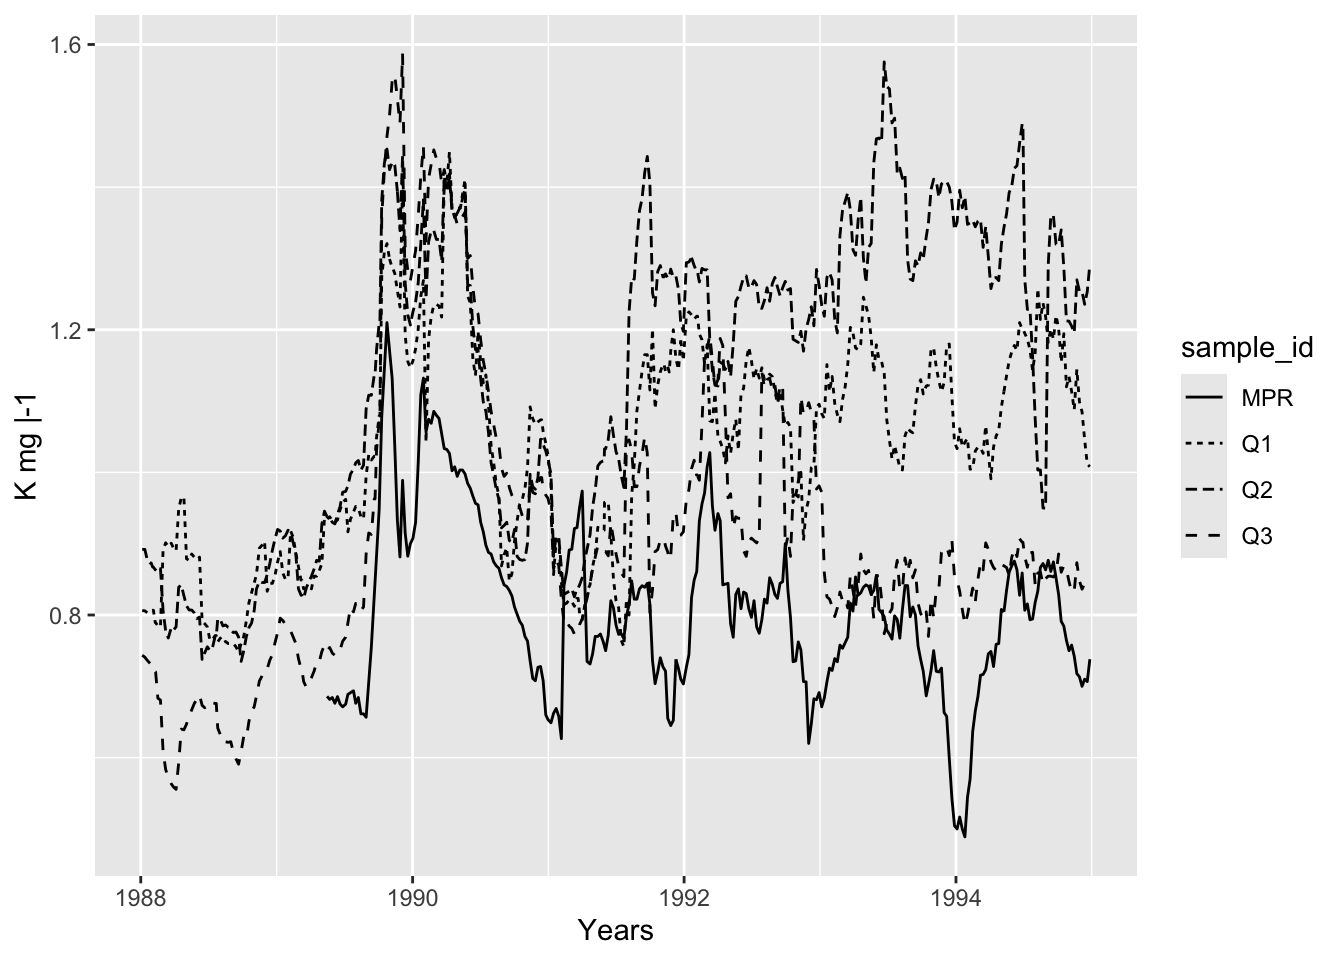
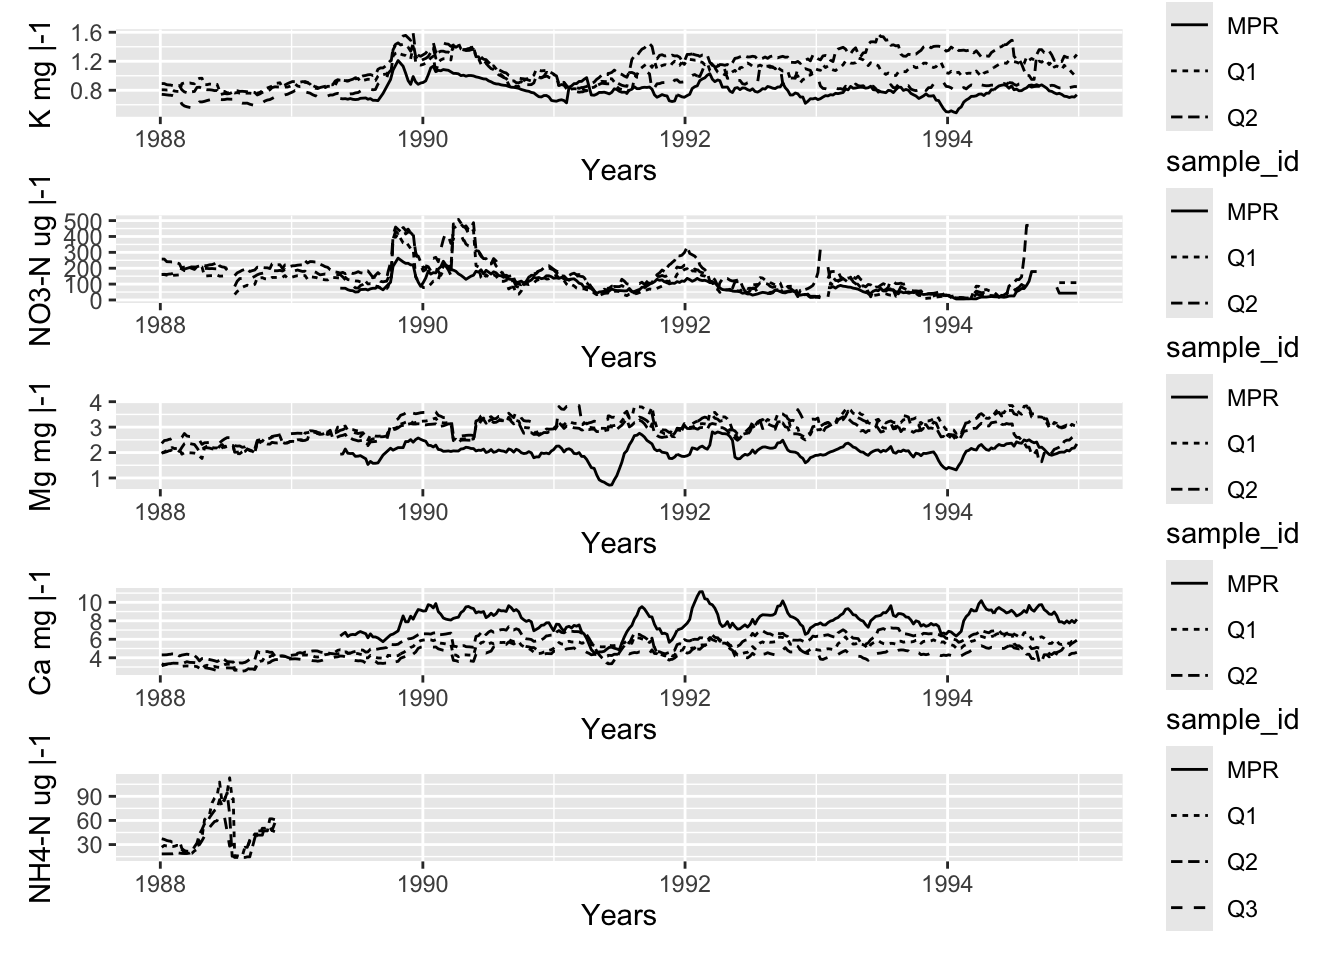
final graph

diff --git a/docs/paper.html b/docs/paper.html
@@ -282,62 +282,40 @@ date  (1): Sample_Date
 <h1>Results</h1>
 <div class="cell">
 <div class="sourceCode cell-code" id="cb13"><pre class="sourceCode r code-with-copy"><code class="sourceCode r"><span id="cb13-1"><a href="#cb13-1" aria-hidden="true" tabindex="-1"></a><span class="co"># ggplot of the rollmean average k </span></span>
-<span id="cb13-2"><a href="#cb13-2" aria-hidden="true" tabindex="-1"></a><span class="fu">ggplot</span>(<span class="at">data =</span> mov_avg_k, <span class="fu">aes</span>(<span class="at">x =</span> sample_date, <span class="at">y =</span> mov_avg_k, <span class="at">linetype =</span> sample_id)) <span class="sc">+</span></span>
+<span id="cb13-2"><a href="#cb13-2" aria-hidden="true" tabindex="-1"></a>k_plot <span class="ot">&lt;-</span> <span class="fu">ggplot</span>(<span class="at">data =</span> mov_avg_k, <span class="fu">aes</span>(<span class="at">x =</span> sample_date, <span class="at">y =</span> mov_avg_k, <span class="at">linetype =</span> sample_id)) <span class="sc">+</span></span>
 <span id="cb13-3"><a href="#cb13-3" aria-hidden="true" tabindex="-1"></a>  <span class="fu">geom_line</span>() <span class="sc">+</span></span>
 <span id="cb13-4"><a href="#cb13-4" aria-hidden="true" tabindex="-1"></a>  <span class="fu">labs</span>(<span class="at">x =</span> <span class="st">"Years"</span>,</span>
-<span id="cb13-5"><a href="#cb13-5" aria-hidden="true" tabindex="-1"></a>       <span class="at">y =</span> <span class="st">"K mg |-1"</span>)</span></code><button title="Copy to Clipboard" class="code-copy-button"><i class="bi"></i></button></pre></div>
-<div class="cell-output-display">
-<div>
-<figure class="figure">
-<p><img src="paper_files/figure-html/unnamed-chunk-4-1.png" class="img-fluid figure-img" width="672"></p>
-</figure>
-</div>
-</div>
-<div class="sourceCode cell-code" id="cb14"><pre class="sourceCode r code-with-copy"><code class="sourceCode r"><span id="cb14-1"><a href="#cb14-1" aria-hidden="true" tabindex="-1"></a><span class="co"># ggplot of the rollmean average NO3_N</span></span>
-<span id="cb14-2"><a href="#cb14-2" aria-hidden="true" tabindex="-1"></a><span class="fu">ggplot</span>(<span class="at">data =</span> mov_avg_no3_n, <span class="fu">aes</span>(<span class="at">x =</span> sample_date, <span class="at">y =</span> mov_avg_no3_n, <span class="at">linetype =</span> sample_id)) <span class="sc">+</span></span>
-<span id="cb14-3"><a href="#cb14-3" aria-hidden="true" tabindex="-1"></a>  <span class="fu">geom_line</span>() <span class="sc">+</span></span>
-<span id="cb14-4"><a href="#cb14-4" aria-hidden="true" tabindex="-1"></a>  <span class="fu">labs</span>(<span class="at">x =</span> <span class="st">"Years"</span>,</span>
-<span id="cb14-5"><a href="#cb14-5" aria-hidden="true" tabindex="-1"></a>       <span class="at">y =</span> <span class="st">"NO3-N ug |-1"</span>)</span></code><button title="Copy to Clipboard" class="code-copy-button"><i class="bi"></i></button></pre></div>
+<span id="cb13-5"><a href="#cb13-5" aria-hidden="true" tabindex="-1"></a>       <span class="at">y =</span> <span class="st">"K mg |-1"</span>)</span>
+<span id="cb13-6"><a href="#cb13-6" aria-hidden="true" tabindex="-1"></a></span>
+<span id="cb13-7"><a href="#cb13-7" aria-hidden="true" tabindex="-1"></a><span class="co"># ggplot of the rollmean average NO3_N</span></span>
+<span id="cb13-8"><a href="#cb13-8" aria-hidden="true" tabindex="-1"></a>no3_n_plot <span class="ot">&lt;-</span> <span class="fu">ggplot</span>(<span class="at">data =</span> mov_avg_no3_n, <span class="fu">aes</span>(<span class="at">x =</span> sample_date, <span class="at">y =</span> mov_avg_no3_n, <span class="at">linetype =</span> sample_id)) <span class="sc">+</span></span>
+<span id="cb13-9"><a href="#cb13-9" aria-hidden="true" tabindex="-1"></a>  <span class="fu">geom_line</span>() <span class="sc">+</span></span>
+<span id="cb13-10"><a href="#cb13-10" aria-hidden="true" tabindex="-1"></a>  <span class="fu">labs</span>(<span class="at">x =</span> <span class="st">"Years"</span>,</span>
+<span id="cb13-11"><a href="#cb13-11" aria-hidden="true" tabindex="-1"></a>       <span class="at">y =</span> <span class="st">"NO3-N ug |-1"</span>)</span>
+<span id="cb13-12"><a href="#cb13-12" aria-hidden="true" tabindex="-1"></a></span>
+<span id="cb13-13"><a href="#cb13-13" aria-hidden="true" tabindex="-1"></a><span class="co"># ggplot of the rollmean average NO3_N</span></span>
+<span id="cb13-14"><a href="#cb13-14" aria-hidden="true" tabindex="-1"></a>mg_plot <span class="ot">&lt;-</span> <span class="fu">ggplot</span>(<span class="at">data =</span> mov_avg_mg, <span class="fu">aes</span>(<span class="at">x =</span> sample_date, <span class="at">y =</span> mov_avg_mg, <span class="at">linetype =</span> sample_id)) <span class="sc">+</span></span>
+<span id="cb13-15"><a href="#cb13-15" aria-hidden="true" tabindex="-1"></a>  <span class="fu">geom_line</span>() <span class="sc">+</span></span>
+<span id="cb13-16"><a href="#cb13-16" aria-hidden="true" tabindex="-1"></a>  <span class="fu">labs</span>(<span class="at">x =</span> <span class="st">"Years"</span>,</span>
+<span id="cb13-17"><a href="#cb13-17" aria-hidden="true" tabindex="-1"></a>       <span class="at">y =</span> <span class="st">"Mg mg |-1"</span>)</span>
+<span id="cb13-18"><a href="#cb13-18" aria-hidden="true" tabindex="-1"></a></span>
+<span id="cb13-19"><a href="#cb13-19" aria-hidden="true" tabindex="-1"></a><span class="co"># ggplot of the rollmean average NO3_N</span></span>
+<span id="cb13-20"><a href="#cb13-20" aria-hidden="true" tabindex="-1"></a>ca_plot <span class="ot">&lt;-</span> <span class="fu">ggplot</span>(<span class="at">data =</span> mov_avg_ca, <span class="fu">aes</span>(<span class="at">x =</span> sample_date, <span class="at">y =</span> mov_avg_ca, <span class="at">linetype =</span> sample_id)) <span class="sc">+</span></span>
+<span id="cb13-21"><a href="#cb13-21" aria-hidden="true" tabindex="-1"></a>  <span class="fu">geom_line</span>() <span class="sc">+</span></span>
+<span id="cb13-22"><a href="#cb13-22" aria-hidden="true" tabindex="-1"></a>  <span class="fu">labs</span>(<span class="at">x =</span> <span class="st">"Years"</span>,</span>
+<span id="cb13-23"><a href="#cb13-23" aria-hidden="true" tabindex="-1"></a>       <span class="at">y =</span> <span class="st">"Ca mg |-1"</span>)</span>
+<span id="cb13-24"><a href="#cb13-24" aria-hidden="true" tabindex="-1"></a></span>
+<span id="cb13-25"><a href="#cb13-25" aria-hidden="true" tabindex="-1"></a><span class="co"># ggplot of the rollmean average NH4_N</span></span>
+<span id="cb13-26"><a href="#cb13-26" aria-hidden="true" tabindex="-1"></a>nh4_n_plot <span class="ot">&lt;-</span> <span class="fu">ggplot</span>(<span class="at">data =</span> mov_avg_nh4_n, <span class="fu">aes</span>(<span class="at">x =</span> sample_date, <span class="at">y =</span> mov_avg_nh4_n, <span class="at">linetype =</span> sample_id)) <span class="sc">+</span></span>
+<span id="cb13-27"><a href="#cb13-27" aria-hidden="true" tabindex="-1"></a>  <span class="fu">geom_line</span>() <span class="sc">+</span></span>
+<span id="cb13-28"><a href="#cb13-28" aria-hidden="true" tabindex="-1"></a>  <span class="fu">labs</span>(<span class="at">x =</span> <span class="st">"Years"</span>,</span>
+<span id="cb13-29"><a href="#cb13-29" aria-hidden="true" tabindex="-1"></a>       <span class="at">y =</span> <span class="st">"NH4-N ug |-1"</span>)</span>
+<span id="cb13-30"><a href="#cb13-30" aria-hidden="true" tabindex="-1"></a></span>
+<span id="cb13-31"><a href="#cb13-31" aria-hidden="true" tabindex="-1"></a>k_plot <span class="sc">/</span> no3_n_plot <span class="sc">/</span> mg_plot <span class="sc">/</span> ca_plot <span class="sc">/</span> nh4_n_plot</span></code><button title="Copy to Clipboard" class="code-copy-button"><i class="bi"></i></button></pre></div>
 <div class="cell-output cell-output-stderr">
 <pre><code>Warning: Removed 38 rows containing missing values or values outside the scale range
 (`geom_line()`).</code></pre>
 </div>
-<div class="cell-output-display">
-<div>
-<figure class="figure">
-<p><img src="paper_files/figure-html/unnamed-chunk-4-2.png" class="img-fluid figure-img" width="672"></p>
-</figure>
-</div>
-</div>
-<div class="sourceCode cell-code" id="cb16"><pre class="sourceCode r code-with-copy"><code class="sourceCode r"><span id="cb16-1"><a href="#cb16-1" aria-hidden="true" tabindex="-1"></a><span class="co"># ggplot of the rollmean average NO3_N</span></span>
-<span id="cb16-2"><a href="#cb16-2" aria-hidden="true" tabindex="-1"></a><span class="fu">ggplot</span>(<span class="at">data =</span> mov_avg_mg, <span class="fu">aes</span>(<span class="at">x =</span> sample_date, <span class="at">y =</span> mov_avg_mg, <span class="at">linetype =</span> sample_id)) <span class="sc">+</span></span>
-<span id="cb16-3"><a href="#cb16-3" aria-hidden="true" tabindex="-1"></a>  <span class="fu">geom_line</span>() <span class="sc">+</span></span>
-<span id="cb16-4"><a href="#cb16-4" aria-hidden="true" tabindex="-1"></a>  <span class="fu">labs</span>(<span class="at">x =</span> <span class="st">"Years"</span>,</span>
-<span id="cb16-5"><a href="#cb16-5" aria-hidden="true" tabindex="-1"></a>       <span class="at">y =</span> <span class="st">"Mg mg |-1"</span>)</span></code><button title="Copy to Clipboard" class="code-copy-button"><i class="bi"></i></button></pre></div>
-<div class="cell-output-display">
-<div>
-<figure class="figure">
-<p><img src="paper_files/figure-html/unnamed-chunk-4-3.png" class="img-fluid figure-img" width="672"></p>
-</figure>
-</div>
-</div>
-<div class="sourceCode cell-code" id="cb17"><pre class="sourceCode r code-with-copy"><code class="sourceCode r"><span id="cb17-1"><a href="#cb17-1" aria-hidden="true" tabindex="-1"></a><span class="co"># ggplot of the rollmean average NO3_N</span></span>
-<span id="cb17-2"><a href="#cb17-2" aria-hidden="true" tabindex="-1"></a><span class="fu">ggplot</span>(<span class="at">data =</span> mov_avg_ca, <span class="fu">aes</span>(<span class="at">x =</span> sample_date, <span class="at">y =</span> mov_avg_ca, <span class="at">linetype =</span> sample_id)) <span class="sc">+</span></span>
-<span id="cb17-3"><a href="#cb17-3" aria-hidden="true" tabindex="-1"></a>  <span class="fu">geom_line</span>() <span class="sc">+</span></span>
-<span id="cb17-4"><a href="#cb17-4" aria-hidden="true" tabindex="-1"></a>  <span class="fu">labs</span>(<span class="at">x =</span> <span class="st">"Years"</span>,</span>
-<span id="cb17-5"><a href="#cb17-5" aria-hidden="true" tabindex="-1"></a>       <span class="at">y =</span> <span class="st">"Ca mg |-1"</span>)</span></code><button title="Copy to Clipboard" class="code-copy-button"><i class="bi"></i></button></pre></div>
-<div class="cell-output-display">
-<div>
-<figure class="figure">
-<p><img src="paper_files/figure-html/unnamed-chunk-4-4.png" class="img-fluid figure-img" width="672"></p>
-</figure>
-</div>
-</div>
-<div class="sourceCode cell-code" id="cb18"><pre class="sourceCode r code-with-copy"><code class="sourceCode r"><span id="cb18-1"><a href="#cb18-1" aria-hidden="true" tabindex="-1"></a><span class="co"># ggplot of the rollmean average NH4_N</span></span>
-<span id="cb18-2"><a href="#cb18-2" aria-hidden="true" tabindex="-1"></a><span class="fu">ggplot</span>(<span class="at">data =</span> mov_avg_nh4_n, <span class="fu">aes</span>(<span class="at">x =</span> sample_date, <span class="at">y =</span> mov_avg_nh4_n, <span class="at">linetype =</span> sample_id)) <span class="sc">+</span></span>
-<span id="cb18-3"><a href="#cb18-3" aria-hidden="true" tabindex="-1"></a>  <span class="fu">geom_line</span>() <span class="sc">+</span></span>
-<span id="cb18-4"><a href="#cb18-4" aria-hidden="true" tabindex="-1"></a>  <span class="fu">labs</span>(<span class="at">x =</span> <span class="st">"Years"</span>,</span>
-<span id="cb18-5"><a href="#cb18-5" aria-hidden="true" tabindex="-1"></a>       <span class="at">y =</span> <span class="st">"NH4-N ug |-1"</span>)</span></code><button title="Copy to Clipboard" class="code-copy-button"><i class="bi"></i></button></pre></div>
 <div class="cell-output cell-output-stderr">
 <pre><code>Warning: Removed 1316 rows containing missing values or values outside the scale range
 (`geom_line()`).</code></pre>
@@ -345,7 +323,7 @@ date  (1): Sample_Date
 <div class="cell-output-display">
 <div>
 <figure class="figure">
-<p><img src="paper_files/figure-html/unnamed-chunk-4-5.png" class="img-fluid figure-img" width="672"></p>
+<p><img src="paper_files/figure-html/unnamed-chunk-4-1.png" class="img-fluid figure-img" width="672"></p>
 </figure>
 </div>
 </div>
